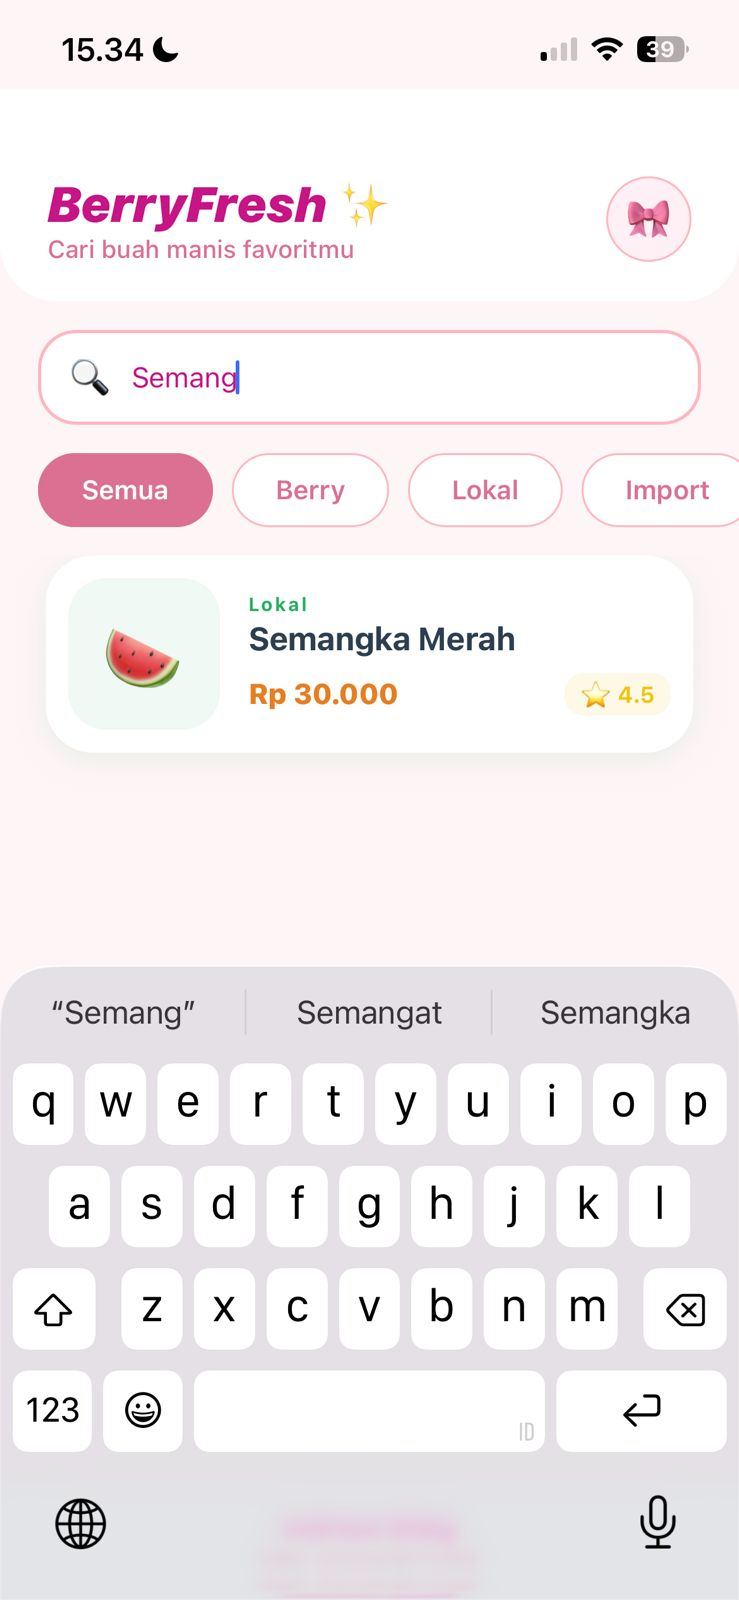
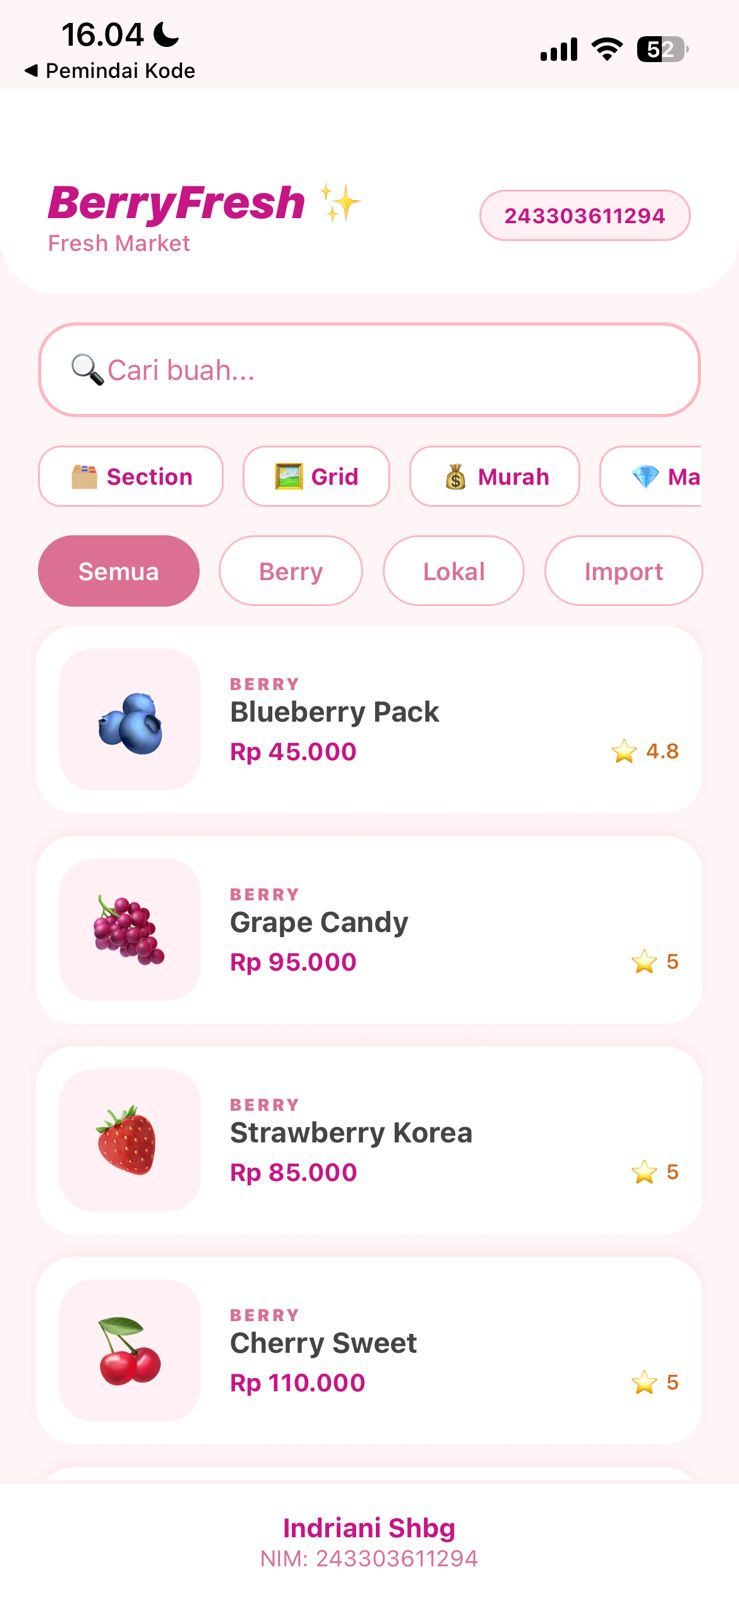
update kecil

diff --git a/App.js b/App.js
@@ -1,10 +1,8 @@
 import React, { useState } from 'react';
 import { 
-  SafeAreaView, FlatList, TextInput, View, Text, 
+  SafeAreaView, FlatList, SectionList, TextInput, View, Text, 
   StyleSheet, RefreshControl, TouchableOpacity, ScrollView, StatusBar 
 } from 'react-native';
-
-// Import data dan komponen
 import { PRODUCTS } from './data/products';
 import ProductCard from './components/ProductCard';
 
@@ -14,30 +12,41 @@ export default function App() {
   const [search, setSearch] = useState('');
   const [activeCat, setActiveCat] = useState('Semua');
   const [refreshing, setRefreshing] = useState(false);
+  const [isGridView, setIsGridView] = useState(false);
+  const [isSectionMode, setIsSectionMode] = useState(false);
+  const [sortBy, setSortBy] = useState(null);
 
-  // R5: Filter Logika
-  const filteredData = PRODUCTS.filter(item => {
-    const matchesSearch = item.name.toLowerCase().includes(search.toLowerCase());
-    const matchesCat = activeCat === 'Semua' || item.category === activeCat;
-    return matchesSearch && matchesCat;
-  });
+  const getProcessedData = () => {
+    let data = [...PRODUCTS];
+    data = data.filter(item => {
+      const matchesSearch = item.name.toLowerCase().includes(search.toLowerCase());
+      const matchesCat = activeCat === 'Semua' || item.category === activeCat;
+      return matchesSearch && matchesCat;
+    });
 
-  // R6: Pull to Refresh
+    if (sortBy === 'price_low') data.sort((a, b) => a.price - b.price);
+    if (sortBy === 'price_high') data.sort((a, b) => b.price - a.price);
+    if (sortBy === 'rating') data.sort((a, b) => b.rating - a.rating);
+    
+    return data;
+  };
+
+  const processedData = getProcessedData();
+
+  const getSectionData = () => {
+    return CATEGORIES.filter(cat => cat !== 'Semua').map(cat => ({
+      title: cat,
+      data: processedData.filter(item => item.category === cat)
+    })).filter(section => section.data.length > 0);
+  };
+
   const onRefresh = () => {
     setRefreshing(true);
     setSearch('');
     setActiveCat('Semua');
+    setSortBy(null);
     setTimeout(() => setRefreshing(false), 1500);
   };
-
-  // R4: Empty State
-  const renderEmpty = () => (
-    <View style={styles.emptyBox}>
-      <Text style={styles.emptyImg}>🌸</Text>
-      <Text style={styles.emptyText}>Duh, buahnya nggak ketemu, Sis!</Text>
-      <Text style={styles.emptyHint}>Coba cari nama buah lain atau tarik ke bawah ya ✨</Text>
-    </View>
-  );
 
   return (
     <SafeAreaView style={styles.container}>
@@ -46,50 +55,55 @@ export default function App() {
       <View style={styles.header}>
         <View>
           <Text style={styles.welcomeText}>BerryFresh ✨</Text>
-          <Text style={styles.subWelcome}>Cari buah manis favoritmu</Text>
+          <Text style={styles.subWelcome}>{isSectionMode ? 'Mode Kategori' : 'Fresh Market'}</Text>
         </View>
-        <View style={styles.profileCircle}>
-          <Text style={styles.profileEmoji}>🎀</Text>
+        <View style={styles.idBadge}>
+          <Text style={styles.nimText}>243303611294</Text>
         </View>
       </View>
 
       <View style={styles.searchContainer}>
         <View style={styles.searchBox}>
           <Text style={styles.searchIcon}>🔍</Text>
-          <TextInput
-            style={styles.searchInput}
-            placeholder="Mau buah segar apa?"
-            placeholderTextColor="#DB7093"
-            value={search}
-            onChangeText={setSearch}
-          />
+          <TextInput style={styles.searchInput} placeholder="Cari buah..." placeholderTextColor="#DB7093" value={search} onChangeText={setSearch} />
         </View>
       </View>
 
-      <View style={{ marginBottom: 15 }}>
-        <ScrollView horizontal showsHorizontalScrollIndicator={false} contentContainerStyle={styles.catScroll}>
-          {CATEGORIES.map(cat => (
-            <TouchableOpacity 
-              key={cat} 
-              style={[styles.catChip, activeCat === cat && styles.catChipActive]}
-              onPress={() => setActiveCat(cat)}
-            >
-              <Text style={[styles.catText, activeCat === cat && styles.catTextActive]}>{cat}</Text>
+      <View style={styles.controlPanel}>
+        <ScrollView horizontal showsHorizontalScrollIndicator={false}>
+          <TouchableOpacity style={[styles.miniBtn, isSectionMode && styles.activeMini]} onPress={() => {setIsSectionMode(!isSectionMode); setIsGridView(false)}}>
+            <Text style={[styles.miniBtnText, isSectionMode && styles.activeText]}>{isSectionMode ? '📋 Normal' : '🗂 Section'}</Text>
+          </TouchableOpacity>
+          {!isSectionMode && (
+            <TouchableOpacity style={[styles.miniBtn, isGridView && styles.activeMini]} onPress={() => setIsGridView(!isGridView)}>
+              <Text style={[styles.miniBtnText, isGridView && styles.activeText]}>{isGridView ? '📱 List' : '🖼 Grid'}</Text>
             </TouchableOpacity>
-          ))}
+          )}
+          <TouchableOpacity style={[styles.miniBtn, sortBy === 'price_low' && styles.activeMini]} onPress={() => setSortBy(sortBy === 'price_low' ? null : 'price_low')}><Text style={[styles.miniBtnText, sortBy === 'price_low' && styles.activeText]}>💰 Murah</Text></TouchableOpacity>
+          <TouchableOpacity style={[styles.miniBtn, sortBy === 'price_high' && styles.activeMini]} onPress={() => setSortBy(sortBy === 'price_high' ? null : 'price_high')}><Text style={[styles.miniBtnText, sortBy === 'price_high' && styles.activeText]}>💎 Mahal</Text></TouchableOpacity>
+          <TouchableOpacity style={[styles.miniBtn, sortBy === 'rating' && styles.activeMini]} onPress={() => setSortBy(sortBy === 'rating' ? null : 'rating')}><Text style={[styles.miniBtnText, sortBy === 'rating' && styles.activeText]}>⭐ Rating</Text></TouchableOpacity>
         </ScrollView>
       </View>
 
-      <FlatList
-        data={filteredData}
-        renderItem={({ item }) => <ProductCard item={item} />}
-        keyExtractor={item => item.id}
-        contentContainerStyle={styles.listContainer}
-        ListEmptyComponent={renderEmpty}
-        refreshControl={
-          <RefreshControl refreshing={refreshing} onRefresh={onRefresh} tintColor="#FF69B4" />
-        }
-      />
+      {!isSectionMode && (
+        <View style={{ marginBottom: 10 }}>
+          <ScrollView horizontal showsHorizontalScrollIndicator={false} contentContainerStyle={styles.catScroll}>
+            {CATEGORIES.map(cat => (
+              <TouchableOpacity key={cat} style={[styles.catChip, activeCat === cat && styles.catChipActive]} onPress={() => setActiveCat(cat)}>
+                <Text style={[styles.catText, activeCat === cat && styles.catTextActive]}>{cat}</Text>
+              </TouchableOpacity>
+            ))}
+          </ScrollView>
+        </View>
+      )}
+
+      {isSectionMode ? (
+        <SectionList sections={getSectionData()} keyExtractor={(item) => item.id} renderItem={({ item }) => <ProductCard item={item} isGrid={false} />} renderSectionHeader={({ section: { title } }) => (
+          <View style={styles.sectionHeader}><Text style={styles.sectionTitle}>{title}</Text></View>
+        )} contentContainerStyle={styles.listContainer} refreshControl={<RefreshControl refreshing={refreshing} onRefresh={onRefresh} tintColor="#FF69B4" />} />
+      ) : (
+        <FlatList key={isGridView ? 'G' : 'L'} data={processedData} numColumns={isGridView ? 2 : 1} renderItem={({ item }) => <ProductCard item={item} isGrid={isGridView} />} keyExtractor={item => item.id} contentContainerStyle={styles.listContainer} refreshControl={<RefreshControl refreshing={refreshing} onRefresh={onRefresh} tintColor="#FF69B4" />} ListEmptyComponent={<View style={styles.emptyContainer}><Text style={styles.emptyIcon}>🌸</Text><Text style={styles.emptyText}>Buahnya nggak ketemu, Sis!</Text></View>} />
+      )}
 
       <View style={styles.footer}>
         <Text style={styles.footerName}>Indriani Shbg</Text>
@@ -101,58 +115,31 @@ export default function App() {
 
 const styles = StyleSheet.create({
   container: { flex: 1, backgroundColor: '#FFF5F7' },
-  header: { 
-    paddingHorizontal: 25, 
-    paddingTop: 45, 
-    paddingBottom: 20, 
-    flexDirection: 'row', 
-    justifyContent: 'space-between', 
-    alignItems: 'center', 
-    backgroundColor: '#fff',
-    borderBottomLeftRadius: 30,
-    borderBottomRightRadius: 30,
-    elevation: 5,
-    shadowColor: '#FFB6C1',
-  },
-  welcomeText: { fontSize: 26, fontWeight: '900', color: '#C71585', fontStyle: 'italic' },
-  subWelcome: { fontSize: 13, color: '#DB7093', fontWeight: '500' },
-  profileCircle: { width: 45, height: 45, borderRadius: 23, backgroundColor: '#FFF0F5', justifyContent: 'center', alignItems: 'center', borderWidth: 1, borderColor: '#FFB6C1' },
-  profileEmoji: { fontSize: 20 },
+  header: { paddingHorizontal: 25, paddingTop: 45, paddingBottom: 20, backgroundColor: '#fff', flexDirection: 'row', justifyContent: 'space-between', alignItems: 'center', borderBottomLeftRadius: 30, borderBottomRightRadius: 30, elevation: 5, shadowColor: '#FFB6C1' },
+  welcomeText: { fontSize: 24, fontWeight: '900', color: '#C71585', fontStyle: 'italic' },
+  subWelcome: { fontSize: 12, color: '#DB7093', fontWeight: '500' },
+  idBadge: { backgroundColor: '#FFF0F5', paddingHorizontal: 12, paddingVertical: 6, borderRadius: 15, borderWidth: 1, borderColor: '#FFB6C1' },
+  nimText: { fontSize: 11, color: '#C71585', fontWeight: 'bold' },
   searchContainer: { paddingHorizontal: 20, marginVertical: 15 },
-  searchBox: { 
-    flexDirection: 'row', 
-    alignItems: 'center', 
-    backgroundColor: '#fff', 
-    borderRadius: 20, 
-    paddingHorizontal: 15, 
-    height: 50, 
-    borderWidth: 1.5, 
-    borderColor: '#FFB6C1',
-    elevation: 3,
-    shadowColor: '#FFB6C1',
-  },
-  searchIcon: { marginRight: 10, fontSize: 16 },
-  searchInput: { flex: 1, fontSize: 15, color: '#C71585' },
+  searchBox: { flexDirection: 'row', alignItems: 'center', backgroundColor: '#fff', borderRadius: 20, paddingHorizontal: 15, height: 50, borderWidth: 1.5, borderColor: '#FFB6C1', elevation: 3 },
+  searchInput: { flex: 1, color: '#C71585', fontSize: 15 },
+  controlPanel: { paddingHorizontal: 20, marginBottom: 15 },
+  miniBtn: { paddingHorizontal: 15, paddingVertical: 8, borderRadius: 12, backgroundColor: '#fff', marginRight: 10, borderWidth: 1, borderColor: '#FFB6C1' },
+  activeMini: { backgroundColor: '#C71585', borderColor: '#C71585' },
+  miniBtnText: { fontSize: 12, color: '#C71585', fontWeight: 'bold' },
+  activeText: { color: '#fff' },
   catScroll: { paddingHorizontal: 20 },
-  catChip: { paddingHorizontal: 22, paddingVertical: 10, borderRadius: 20, backgroundColor: '#fff', marginRight: 10, borderWidth: 1, borderColor: '#FFB6C1' },
+  catChip: { paddingHorizontal: 20, paddingVertical: 10, borderRadius: 20, backgroundColor: '#fff', marginRight: 10, borderWidth: 1, borderColor: '#FFB6C1' },
   catChipActive: { backgroundColor: '#DB7093', borderColor: '#DB7093' },
-  catText: { fontSize: 14, fontWeight: '600', color: '#DB7093' },
+  catText: { fontSize: 13, color: '#DB7093', fontWeight: '600' },
   catTextActive: { color: '#fff' },
-  listContainer: { paddingHorizontal: 20, paddingBottom: 110 },
-  emptyBox: { alignItems: 'center', marginTop: 80, paddingHorizontal: 40 },
-  emptyImg: { fontSize: 70, marginBottom: 15 },
-  emptyText: { fontSize: 18, fontWeight: '800', color: '#C71585', textAlign: 'center' },
-  emptyHint: { fontSize: 14, color: '#DB7093', textAlign: 'center', marginTop: 10 },
-  footer: { 
-    position: 'absolute', 
-    bottom: 0, 
-    width: '100%', 
-    backgroundColor: '#fff', 
-    padding: 15, 
-    alignItems: 'center', 
-    borderTopWidth: 2, 
-    borderTopColor: '#FFF0F5'
-  },
+  listContainer: { paddingHorizontal: 15, paddingBottom: 110 },
+  sectionHeader: { backgroundColor: '#FFF0F5', padding: 10, borderRadius: 15, marginVertical: 10, borderLeftWidth: 5, borderLeftColor: '#C71585' },
+  sectionTitle: { fontSize: 15, fontWeight: '900', color: '#C71585', letterSpacing: 1 },
+  emptyContainer: { alignItems: 'center', marginTop: 100 },
+  emptyIcon: { fontSize: 60, marginBottom: 15 },
+  emptyText: { fontSize: 16, color: '#DB7093', fontWeight: '600' },
+  footer: { position: 'absolute', bottom: 0, width: '100%', backgroundColor: '#fff', padding: 15, alignItems: 'center', borderTopWidth: 2, borderTopColor: '#FFF0F5' },
   footerName: { fontSize: 14, fontWeight: 'bold', color: '#C71585' },
   footerNim: { fontSize: 12, color: '#DB7093' }
 });

diff --git a/components/ProductCard.js b/components/ProductCard.js
@@ -1,57 +1,36 @@
 import React from 'react';
-import { View, Text, StyleSheet } from 'react-native';
+import { View, Text, StyleSheet, Dimensions } from 'react-native';
 
-const ProductCard = ({ item }) => {
-  return (
-    <View style={styles.card}>
-      <View style={styles.imageContainer}>
-        <Text style={styles.image}>{item.image}</Text>
-      </View>
-      <View style={styles.content}>
-        <Text style={styles.category}>{item.category}</Text>
-        <Text style={styles.name}>{item.name}</Text>
-        <View style={styles.row}>
-          <Text style={styles.price}>Rp {item.price.toLocaleString('id-ID')}</Text>
-          <View style={styles.ratingBadge}>
-            <Text style={styles.ratingText}>⭐ {item.rating}</Text>
-          </View>
-        </View>
+const { width } = Dimensions.get('window');
+
+const ProductCard = ({ item, isGrid }) => (
+  <View style={[styles.card, isGrid && styles.gridCard]}>
+    <View style={[styles.imageContainer, isGrid && styles.gridImageContainer]}>
+      <Text style={[styles.image, isGrid && {fontSize: 30}]}>{item.image}</Text>
+    </View>
+    <View style={styles.content}>
+      <Text style={styles.category}>{item.category.toUpperCase()}</Text>
+      <Text style={styles.name} numberOfLines={1}>{item.name}</Text>
+      <View style={styles.priceRow}>
+         <Text style={styles.price}>Rp {item.price.toLocaleString('id-ID')}</Text>
+         <Text style={styles.rating}>⭐ {item.rating}</Text>
       </View>
     </View>
-  );
-};
+  </View>
+);
 
 const styles = StyleSheet.create({
-  card: {
-    backgroundColor: '#fff',
-    borderRadius: 25,
-    padding: 12,
-    marginBottom: 16,
-    flexDirection: 'row',
-    alignItems: 'center',
-    shadowColor: '#27ae60',
-    shadowOffset: { width: 0, height: 4 },
-    shadowOpacity: 0.1,
-    shadowRadius: 8,
-    elevation: 4,
-    marginHorizontal: 4,
-  },
-  imageContainer: {
-    backgroundColor: '#f0f9f4',
-    width: 80,
-    height: 80,
-    borderRadius: 20,
-    justifyContent: 'center',
-    alignItems: 'center',
-  },
-  image: { fontSize: 40 },
-  content: { flex: 1, marginLeft: 15 },
-  category: { fontSize: 10, fontWeight: 'bold', color: '#27ae60', letterSpacing: 1, marginBottom: 2 },
-  name: { fontSize: 17, fontWeight: '700', color: '#2c3e50' },
-  row: { flexDirection: 'row', justifyContent: 'space-between', alignItems: 'center', marginTop: 8 },
-  price: { fontSize: 15, fontWeight: '800', color: '#e67e22' },
-  ratingBadge: { backgroundColor: '#fef9e7', paddingHorizontal: 8, paddingVertical: 4, borderRadius: 10 },
-  ratingText: { fontSize: 12, fontWeight: 'bold', color: '#f1c40f' },
+  card: { backgroundColor: '#fff', borderRadius: 20, padding: 12, marginBottom: 12, flexDirection: 'row', alignItems: 'center', elevation: 3, shadowColor: '#FFB6C1', shadowOpacity: 0.2, marginHorizontal: 4 },
+  gridCard: { flexDirection: 'column', width: (width / 2) - 25, margin: 5, alignItems: 'center' },
+  imageContainer: { backgroundColor: '#FFF0F5', width: 75, height: 75, borderRadius: 18, justifyContent: 'center', alignItems: 'center' },
+  gridImageContainer: { width: 100, height: 100, marginBottom: 10 },
+  image: { fontSize: 38 },
+  content: { flex: 1, marginLeft: 15, width: '100%' },
+  category: { fontSize: 9, fontWeight: '900', color: '#DB7093', letterSpacing: 1 },
+  name: { fontSize: 15, fontWeight: '700', color: '#444' },
+  priceRow: { flexDirection: 'row', justifyContent: 'space-between', alignItems: 'center', marginTop: 4 },
+  price: { fontSize: 13, fontWeight: 'bold', color: '#C71585' },
+  rating: { fontSize: 11, fontWeight: '600', color: '#D2691E' }
 });
 
 export default ProductCard;

diff --git a/data/products.js b/data/products.js
@@ -2,14 +2,21 @@ export const PRODUCTS = [
   { id: '1', name: 'Blueberry Pack', category: 'Berry', price: 45000, rating: 4.8, image: '🫐' },
   { id: '2', name: 'Grape Candy', category: 'Berry', price: 95000, rating: 5.0, image: '🍇' },
   { id: '3', name: 'Strawberry Korea', category: 'Berry', price: 85000, rating: 5.0, image: '🍓' },
+  { id: '13', name: 'Cherry Sweet', category: 'Berry', price: 110000, rating: 5.0, image: '🍒' },
+  { id: '14', name: 'Raspberry Red', category: 'Berry', price: 75000, rating: 4.9, image: '🫐' },
   { id: '4', name: 'Kiwi Zespri', category: 'Import', price: 60000, rating: 4.8, image: '🥝' },
-  { id: '5', name: 'Semangka Merah', category: 'Lokal', price: 30000, rating: 4.5, image: '🍉' },
   { id: '6', name: 'Apel Rose', category: 'Import', price: 25000, rating: 4.6, image: '🍎' },
+  { id: '11', name: 'Jeruk Santang', category: 'Import', price: 40000, rating: 4.8, image: '🍊' },
+  { id: '12', name: 'Peach Soft', category: 'Import', price: 55000, rating: 4.9, image: '🍑' },
+  { id: '15', name: 'Lemon Yellow', category: 'Import', price: 32000, rating: 4.5, image: '🍋' },
+  { id: '16', name: 'Pear Century', category: 'Import', price: 28000, rating: 4.7, image: '🍐' },
+  { id: '5', name: 'Semangka Merah', category: 'Lokal', price: 30000, rating: 4.5, image: '🍉' },
   { id: '7', name: 'Pisang Sunpride', category: 'Lokal', price: 18000, rating: 4.7, image: '🍌' },
   { id: '8', name: 'Mangga Arumanis', category: 'Lokal', price: 25000, rating: 4.9, image: '🥭' },
   { id: '9', name: 'Alpukat Mentega', category: 'Lokal', price: 35000, rating: 4.8, image: '🥑' },
   { id: '10', name: 'Melon Golden', category: 'Lokal', price: 42000, rating: 4.6, image: '🍈' },
-  { id: '11', name: 'Jeruk Santang', category: 'Import', price: 40000, rating: 4.8, image: '🍊' },
-  { id: '12', name: 'Peach Soft', category: 'Import', price: 55000, rating: 4.9, image: '🍑' },
-  { id: '13', name: 'Cherry Sweet', category: 'Berry', price: 110000, rating: 5.0, image: '🍒' },
+  { id: '17', name: 'Nanas Madu', category: 'Lokal', price: 22000, rating: 4.8, image: '🍍' },
+  { id: '18', name: 'Pepaya California', category: 'Lokal', price: 15000, rating: 4.4, image: '🥭' },
+  { id: '19', name: 'Manggis Super', category: 'Lokal', price: 38000, rating: 4.9, image: '🟣' },
+  { id: '20', name: 'Salak Pondoh', category: 'Lokal', price: 12000, rating: 4.6, image: '🤎' },
 ];

diff --git a/README.md b/README.md
@@ -29,13 +29,13 @@ No, you should not share the ".expo" folder. It does not contain any information
 
 ## Screenshot
 ### Tampilan Utama (List Produk)
-![screenshot HP fisik di sini](./image/ss3.jpeg))
-
-### Tampilan Search — saat ada hasil
 ![screenshot HP fisik di sini](./image/ss1.jpeg)
 
-### Tampilan Empty State — saat tidak ada hasil
+### Tampilan Search — saat ada hasil
 ![screenshot HP fisik di sini](./image/ss2.jpeg)
+
+### Tampilan Empty State — saat tidak ada hasil
+![screenshot HP fisik di sini](./image/ss3.jpeg)
 
 ## Cara Menjalankan
 1. Clone repo  : git clone [url-repo-kamu]
